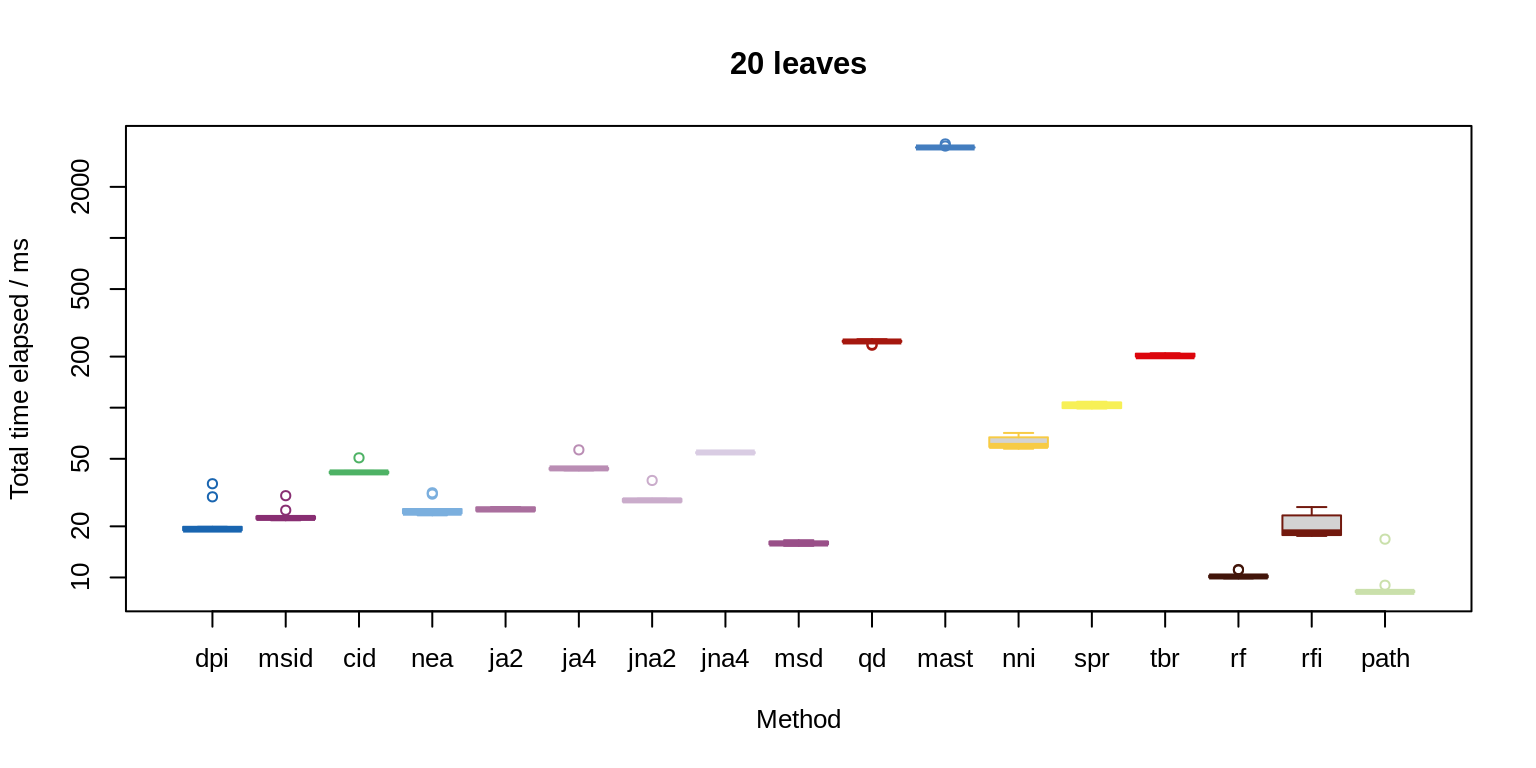
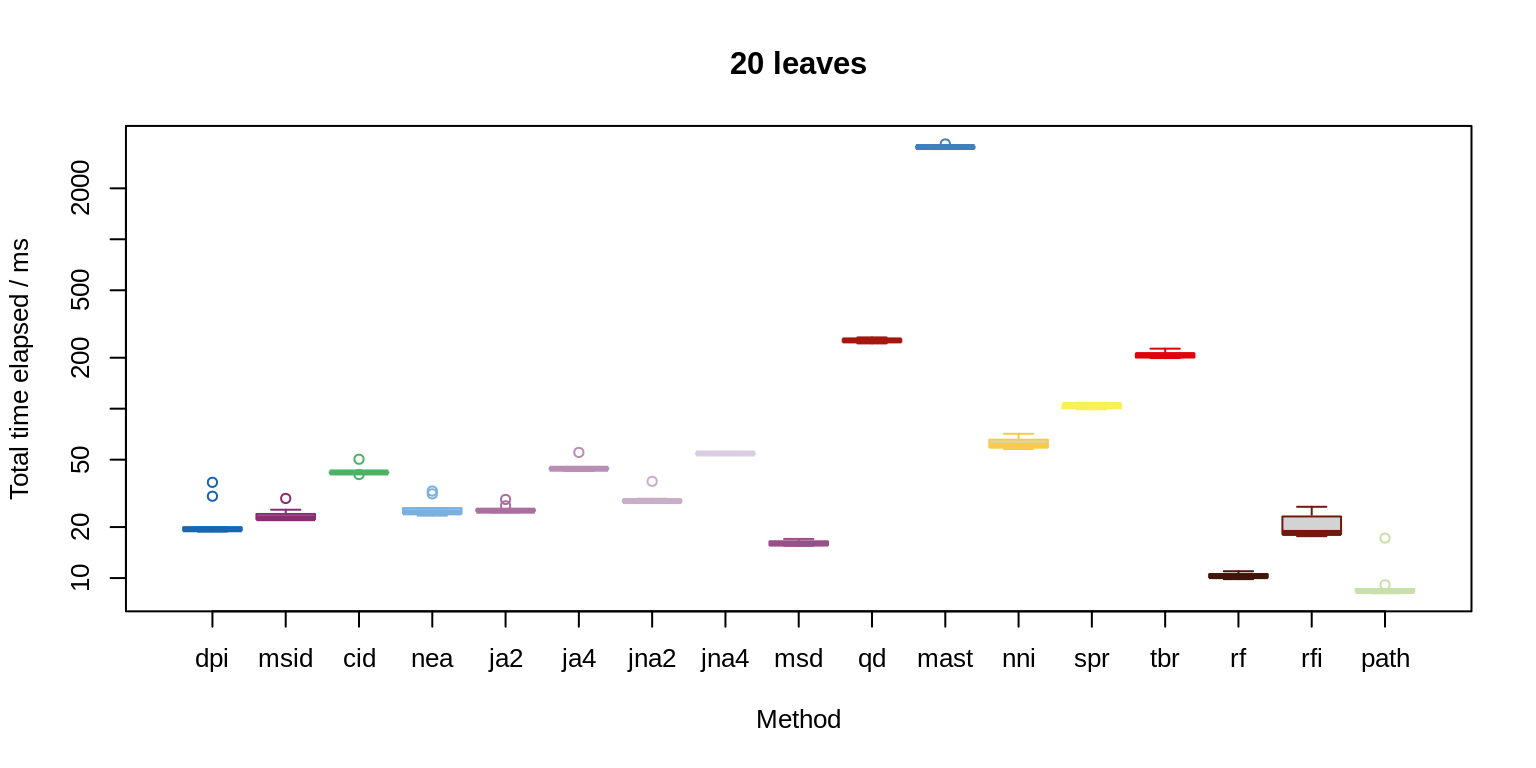
Built site for TreeDistData: 0.1.0@351541b

diff --git a/reference/AllDists.html b/reference/AllDists.html
@@ -187,12 +187,12 @@
 <code><a href='PairwiseDistances.html'>PairwiseDistances</a>()</code></p></div>
 
     <h2 class="hasAnchor" id="examples"><a class="anchor" href="#examples"></a>Examples</h2>
-    <pre class="examples"><div class='input'><span class='fu'><a href='https://rdrr.io/r/base/library.html'>library</a></span>(<span class='st'>'TreeTools'</span>)</div><div class='output co'>#&gt; <span class='message'>Loading required package: ape</span></div><div class='input'><span class='fu'>AllDists</span>(<span class='fu'><a href='https://ms609.github.io/TreeTools/reference/BalancedTree.html'>BalancedTree</a></span>(<span class='fl'>8</span>), <span class='fu'><a href='https://ms609.github.io/TreeTools/reference/PectinateTree.html'>PectinateTree</a></span>(<span class='fl'>8</span>))</div><div class='output co'>#&gt;        dpi       msid        cid         qd        nts        ja2        ja4 
+    <pre class="examples"><div class='input'><span class='fu'><a href='https://rdrr.io/r/base/library.html'>library</a></span>(<span class='st'>'TreeTools'</span>)</div><div class='output co'>#&gt; <span class='message'>Loading required package: ape</span></div><div class='input'><span class='fu'>AllDists</span>(<span class='fu'><a href='https://ms609.github.io/TreeTools/reference/GenerateTree.html'>BalancedTree</a></span>(<span class='fl'>8</span>), <span class='fu'><a href='https://ms609.github.io/TreeTools/reference/GenerateTree.html'>PectinateTree</a></span>(<span class='fl'>8</span>))</div><div class='output co'>#&gt;        dpi       msid        cid         qd        nts        ja2        ja4 
 #&gt;  0.3436186  0.1842247  0.3091981  0.2285714  0.2400000  0.3360000  0.3897600 
 #&gt;       jna2       jna4        msd       mast      masti      nni_l      nni_t 
 #&gt;  0.3360000  0.3897600  6.0000000  6.0000000  6.7142455  2.0000000  2.0000000 
 #&gt;      nni_u        spr      tbr_l      tbr_u         rf        rfi       path 
-#&gt; 14.0000000  2.0000000  1.0000000  3.0000000  4.0000000 17.0076515  5.6568542 </div><div class='input'><span class='fu'>AllDists</span>(<span class='fu'><a href='https://rdrr.io/r/base/list.html'>list</a></span>(<span class='fu'><a href='https://ms609.github.io/TreeTools/reference/BalancedTree.html'>BalancedTree</a></span>(<span class='fl'>6</span>), <span class='fu'><a href='https://ms609.github.io/TreeTools/reference/PectinateTree.html'>PectinateTree</a></span>(<span class='fl'>6</span>)), <span class='fu'><a href='https://ms609.github.io/TreeTools/reference/BalancedTree.html'>BalancedTree</a></span>(<span class='fl'>6</span>))</div><div class='output co'>#&gt;               [,1]      [,2]
+#&gt; 14.0000000  2.0000000  1.0000000  3.0000000  4.0000000 17.0076515  5.6568542 </div><div class='input'><span class='fu'>AllDists</span>(<span class='fu'><a href='https://rdrr.io/r/base/list.html'>list</a></span>(<span class='fu'><a href='https://ms609.github.io/TreeTools/reference/GenerateTree.html'>BalancedTree</a></span>(<span class='fl'>6</span>), <span class='fu'><a href='https://ms609.github.io/TreeTools/reference/GenerateTree.html'>PectinateTree</a></span>(<span class='fl'>6</span>)), <span class='fu'><a href='https://ms609.github.io/TreeTools/reference/GenerateTree.html'>BalancedTree</a></span>(<span class='fl'>6</span>))</div><div class='output co'>#&gt;               [,1]      [,2]
 #&gt; dpi   0.000000e+00 0.3065122
 #&gt; msid  0.000000e+00 0.1864629
 #&gt; cid   0.000000e+00 0.3081816

diff --git a/articles/10-timing.html b/articles/10-timing.html
@@ -147,8 +147,8 @@ The values reported in Smith <span class="citation">(2020)</span> were calculate
 <tbody>
 <tr class="odd">
 <td>Path</td>
-<td align="right">9.2</td>
-<td align="right">16</td>
+<td align="right">9.4</td>
+<td align="right">17</td>
 </tr>
 <tr class="even">
 <td>Robinson-Foulds</td>
@@ -178,7 +178,7 @@ The values reported in Smith <span class="citation">(2020)</span> were calculate
 <tr class="odd">
 <td>JRF (k=2, no conflict)</td>
 <td align="right">26.0</td>
-<td align="right">110</td>
+<td align="right">120</td>
 </tr>
 <tr class="even">
 <td>Nye et al.</td>
@@ -197,7 +197,7 @@ The values reported in Smith <span class="citation">(2020)</span> were calculate
 </tr>
 <tr class="odd">
 <td>JRF (k=4, no conflict)</td>
-<td align="right">45.0</td>
+<td align="right">46.0</td>
 <td align="right">530</td>
 </tr>
 <tr class="even">
@@ -207,23 +207,23 @@ The values reported in Smith <span class="citation">(2020)</span> were calculate
 </tr>
 <tr class="odd">
 <td>NNI (approx.)</td>
-<td align="right">62.0</td>
+<td align="right">63.0</td>
 <td align="right">78</td>
 </tr>
 <tr class="even">
 <td>SPR (approx.)</td>
-<td align="right">100.0</td>
+<td align="right">110.0</td>
 <td align="right">990</td>
 </tr>
 <tr class="odd">
 <td>TBR (approx.)</td>
 <td align="right">210.0</td>
-<td align="right">360</td>
+<td align="right">370</td>
 </tr>
 <tr class="even">
 <td>Quartet</td>
-<td align="right">250.0</td>
-<td align="right">440</td>
+<td align="right">260.0</td>
+<td align="right">450</td>
 </tr>
 <tr class="odd">
 <td>MAST size</td>
